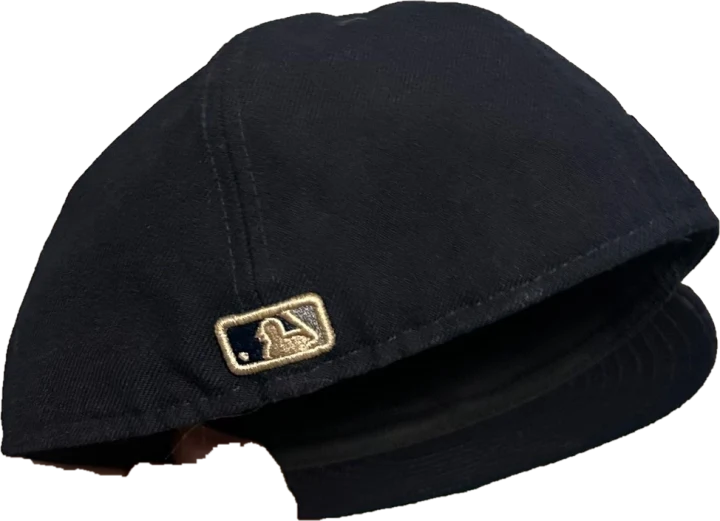
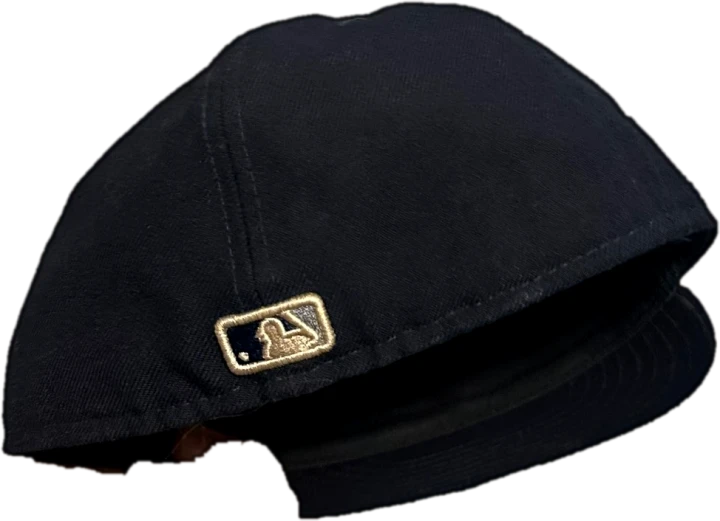
Course intro: 3D perspective spin, crossfades, motion blur, cleaner cap cutout
Claude-Session: https://claude.ai/code/session_01CqBwtqPAXS3iRgHMZL7rT2

diff --git a/index.html b/index.html
@@ -51,8 +51,10 @@ section{padding-block:72px}
 /* intro: flying cap */
 .intro{position:fixed;inset:0;z-index:100;background:#050505;display:grid;place-items:center;overflow:hidden;cursor:pointer}
 .intro::after{content:"";position:absolute;inset:0;background:radial-gradient(60% 45% at 50% 48%,rgba(215,25,32,.10),transparent 70%);pointer-events:none}
-.intro .stage{position:relative;width:min(78vw,440px);aspect-ratio:720/520;display:grid;place-items:center}
-.intro .cap{position:absolute;inset:0;margin:auto;width:100%;height:auto;max-height:100%;object-fit:contain;will-change:transform,filter,opacity;opacity:0}
+.intro .stage{position:relative;width:min(78vw,440px);aspect-ratio:720/520;display:grid;place-items:center;perspective:900px;transform-style:preserve-3d}
+.intro .grain{position:absolute;inset:-50%;opacity:.07;pointer-events:none;background-size:180px 180px;mix-blend-mode:screen;animation:grain .5s steps(4) infinite}
+@keyframes grain{0%{transform:translate(0,0)}25%{transform:translate(-8%,4%)}50%{transform:translate(5%,-6%)}75%{transform:translate(-4%,-3%)}100%{transform:translate(6%,5%)}}
+.intro .cap{position:absolute;inset:0;margin:auto;width:100%;height:auto;max-height:100%;object-fit:contain;will-change:transform,filter,opacity;opacity:0;backface-visibility:hidden;filter:drop-shadow(0 18px 24px rgba(0,0,0,.6))}
 .intro .shadow{position:absolute;left:50%;bottom:-18%;width:60%;height:10%;transform:translateX(-50%);border-radius:50%;background:radial-gradient(closest-side,rgba(255,255,255,.10),transparent);filter:blur(6px)}
 .intro .name{position:absolute;left:0;right:0;bottom:calc(14% + env(safe-area-inset-bottom,0px));text-align:center;display:grid;gap:8px;opacity:0;padding-inline:16px}
 .intro .name b{font:500 clamp(26px,7vw,40px)/1 var(--display);letter-spacing:-.04em;color:var(--red);text-transform:uppercase}
@@ -180,6 +182,7 @@ section{padding-block:72px}
 </head>
 <body>
 <div class="intro" id="intro" aria-hidden="true">
+  <div class="grain" id="grain"></div>
   <button class="skip" type="button" id="introSkip">Пропустить</button>
   <div class="stage">
     <img class="cap" data-v="front" src="cap-front.webp" alt="">
@@ -420,36 +423,40 @@ section{padding-block:72px}
   const outC = t => 1 - Math.pow(1 - t, 3);
   const cl = (x, a = 0, b = 1) => Math.min(b, Math.max(a, x));
   let start = null, stopped = false;
-  const T = { fly: 700, spinEnd: 2300, zoom: 2750, end: 3450 };
+  const T = { fly: 650, spinEnd: 2100, zoom: 2650, end: 3350 };
+  // grain texture
+  try { const c = document.createElement('canvas'); c.width = c.height = 180; const g = c.getContext('2d'); const d = g.createImageData(180, 180);
+    for (let i = 0; i < d.data.length; i += 4) { const v = Math.random() * 255; d.data[i] = d.data[i+1] = d.data[i+2] = v; d.data[i+3] = 255; }
+    g.putImageData(d, 0, 0); document.getElementById('grain').style.backgroundImage = `url(${c.toDataURL()})`; } catch (e) {}
+  const views = [['front', 0], ['side', 90], ['back', 180], ['sideR', 270]];
   function frame(now) {
     if (stopped) return;
     if (start === null) start = now;
     const t = now - start;
-    // spin angle (deg): 2 turns, slowing down to face front
     const spinP = outC(cl(t / T.spinEnd));
-    const ang = 720 * spinP;
+    const ang = 720 * spinP;                      // two turns, slowing to face front
+    const vel = 720 * 3 * Math.pow(1 - cl(t / T.spinEnd), 2) / T.spinEnd * 1000; // deg/s
     const a = ((ang % 360) + 360) % 360;
-    let view, sx;
-    if (a < 45 || a >= 315) { view = 'front'; sx = Math.cos(2 * ((a + 45) % 360 - 45) * Math.PI / 180); }
-    else if (a < 135) { view = 'side'; sx = Math.cos(2 * (a - 90) * Math.PI / 180); }
-    else if (a < 225) { view = 'back'; sx = Math.cos(2 * (a - 180) * Math.PI / 180); }
-    else { view = 'side'; sx = -Math.cos(2 * (a - 270) * Math.PI / 180); }
-    sx = Math.sign(sx || 1) * Math.max(Math.abs(sx), .04);
-    // fly-in path, bob, zoom out to camera
     const fp = outC(cl(t / T.fly));
-    const x = (1 - fp) * -55, y = (1 - fp) * 38 + Math.sin(t / 380) * 2.2 * fp;
+    const x = (1 - fp) * -50, y = (1 - fp) * 42 + Math.sin(t / 380) * 2 * fp;
     const zp = ease(cl((t - T.zoom) / (T.end - T.zoom)));
-    const sc = (0.3 + 0.7 * fp) * (1 + zp * 6);
-    const tilt = (1 - fp) * -25 + Math.sin(t / 520) * 4;
-    const speed = Math.abs(Math.sin(2 * a * Math.PI / 180));
-    const blur = (1 - fp) * 6 + (t < T.spinEnd ? speed * 1.6 * (1 - spinP) : 0) + zp * 14;
-    for (const k in imgs) {
-      const el = imgs[k];
-      if (k !== view) { el.style.opacity = 0; continue; }
-      el.style.opacity = (1 - zp) * Math.min(1, t / 120);
-      el.style.transform = `translate(${x}vw, ${y}vh) rotate(${tilt}deg) scale(${sc * sx}, ${sc})`;
-      el.style.filter = `blur(${blur.toFixed(2)}px)`;
+    const sc = (0.32 + 0.68 * fp) * (1 + zp * 6);
+    const tiltZ = (1 - fp) * -30 + Math.sin(t / 520) * 5;
+    const tiltX = 12 * Math.sin(t / 300) * (1 - spinP) + (1 - fp) * 35;
+    const mblur = Math.min(5, vel / 260) + (1 - fp) * 3 + zp * 14;
+    for (const [k, base] of views) {
+      const el = imgs[k === 'sideR' ? 'side' : k];
+      let d = ((a - base + 540) % 360) - 180;        // -180..180, angle away from this view
+      const w = cl(1 - (Math.abs(d) - 25) / 30);     // crossfade window around each view
+      if (k === 'sideR') { el.dataset.r = w; } else if (k === 'side') { el.dataset.l = w; }
+      if (w <= 0) { if (k !== 'side' && k !== 'sideR') el.style.opacity = 0; continue; }
+      const mirror = k === 'sideR' ? -1 : 1;
+      el.style.opacity = w * (1 - zp) * Math.min(1, t / 120);
+      el.style.transform = `translate(${x}vw, ${y}vh) rotateZ(${tiltZ}deg) rotateX(${tiltX}deg) rotateY(${d * .55}deg) scale(${sc * mirror}, ${sc})`;
+      const light = 0.85 + 0.25 * Math.cos((a + 40) * Math.PI / 180);
+      el.style.filter = `blur(${(mblur * (0.6 + 0.4 * (1 - w))).toFixed(2)}px) brightness(${light.toFixed(3)}) drop-shadow(0 18px 24px rgba(0,0,0,.6))`;
     }
+    const sideEl = imgs.side; if ((+sideEl.dataset.l || 0) <= 0 && (+sideEl.dataset.r || 0) <= 0) sideEl.style.opacity = 0;
     shadow.style.opacity = fp * (1 - zp);
     shadow.style.transform = `translateX(-50%) scaleX(${0.8 + Math.sin(t / 380) * .1})`;
     name.style.opacity = cl((t - 900) / 400) * (1 - cl((t - T.zoom + 150) / 300));
